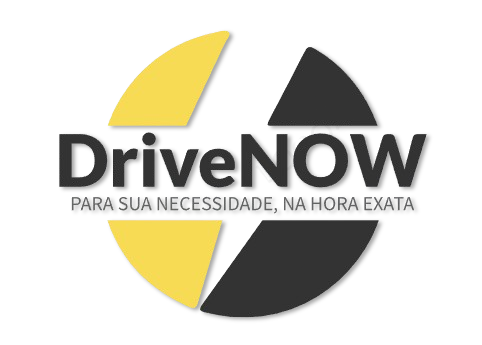
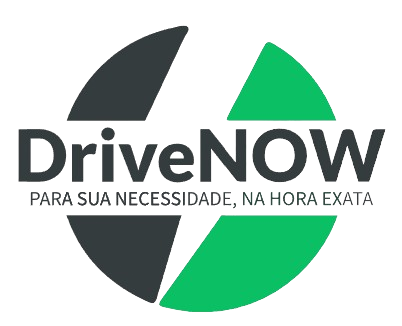
atualização da navbar e integração com o banco

diff --git a/src/pages/CarList/CarList.jsx b/src/pages/CarList/CarList.jsx
@@ -1,7 +1,28 @@
-import { cars } from '../../data/carData';
+import { useEffect, useState } from 'react';
+import axios from 'axios';
 import './CarList.css';
 
 function CarList() {
+  const [cars, setCars] = useState([]);
+  const [loading, setLoading] = useState(true);
+
+  useEffect(() => {
+    // Chamada à API
+    axios.get('http://localhost:3000/listarVeiculos')
+      .then(response => {
+        setCars(response.data);
+        setLoading(false);
+      })
+      .catch(error => {
+        console.error('Erro ao buscar os carros:', error);
+        setLoading(false);
+      });
+  }, []);
+
+  if (loading) {
+    return <p>Carregando...</p>;
+  }
+
   return (
     <div className="car-list container">
       <h1>Carros Disponíveis</h1>
@@ -14,10 +35,9 @@ function CarList() {
             <img src={carro.imagem} alt={`${carro.marca} ${carro.modelo}`} />
             <div className="car-info">
               <h2>{carro.marca} {carro.modelo}</h2>
-              <p>Ano: {carro.ano}</p>
-              <p>Valor diária: R$ {carro.valorDiaria},00</p>
-              <p>Combustível: {carro.combustivel}</p>
-              <p>Transmissão: {carro.transmissao}</p>
+              <p>Ano: {carro.ano_fabricacao}</p>
+              <p>Valor diária: R$ {carro.valor_diaria},00</p>
+              <p>Placa: {carro.placa}</p>
               <button 
                 disabled={!carro.disponivel}
                 className={carro.disponivel ? 'btn-alugar' : 'btn-indisponivel'}

diff --git a/src/data/carData.js b/src/data/carData.js
@@ -7,8 +7,7 @@ export const cars = [
       valorDiaria: 100,
       disponivel: true,
       imagem: '/carros/corolla.jpg',
-      combustivel: 'Gasolina',
-      transmissao: 'Automático'
+      placa: 'ABC1D23'
     },
     {
       id: 2,
@@ -18,8 +17,7 @@ export const cars = [
       valorDiaria: 120,
       disponivel: true,
       imagem: '/carros/civic.jpg',
-      combustivel: 'Flex',
-      transmissao: 'Automático'
+      placa: 'XYZ9E87'
     },
     {
       id: 3,
@@ -29,8 +27,7 @@ export const cars = [
       valorDiaria: 80,
       disponivel: false,
       imagem: '/carros/gol.jpg',
-      combustivel: 'Gasolina',
-      transmissao: 'Manual'
+      placa: 'JKL5G65'
     }
   ];
   

diff --git a/src/index.css b/src/index.css
@@ -1,7 +1,7 @@
 :root {
-  --primary-color: #000000;
-  --secondary-color: #FFA724;
-  --background-color: #FCD397;
+  --primary-color: #0BBF64;
+  --secondary-color: #35c700;
+  --background-color: #ffffff51;
   --text-color: #333;
 }
 

diff --git a/src/components/Navbar/Navbar.css b/src/components/Navbar/Navbar.css
@@ -1,6 +1,6 @@
 .navbar {
-    background-color: white;
-    color: white;
+    background-color: --primary-color;
+    color: rgba(255, 255, 255, 0.2);
     display: flex;
     justify-content: space-between;
     align-items: center;
